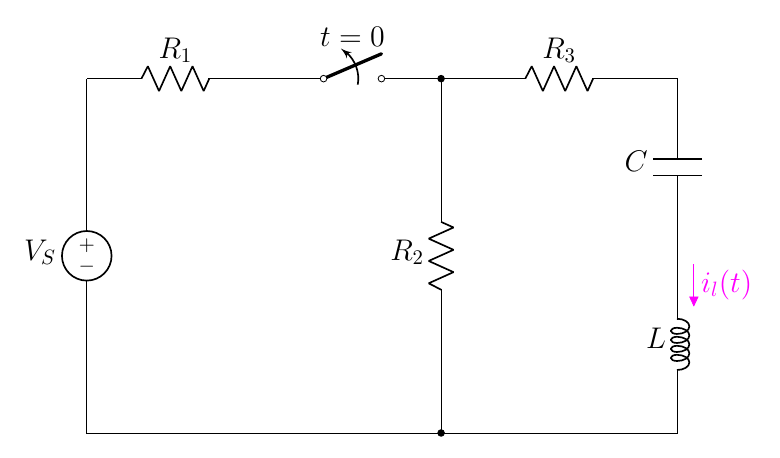
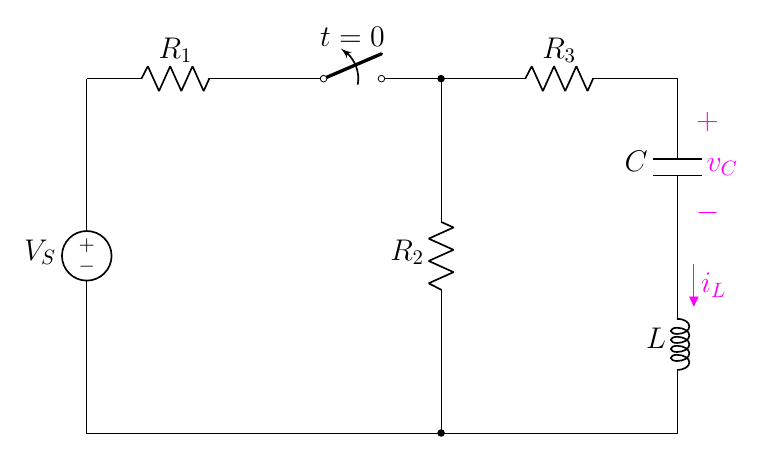
8.16

diff --git a/2.7 Critical Damping/8.3.3 The Critical RLC Circuit/8.16(new).tex b/2.7 Critical Damping/8.3.3 The Critical RLC Circuit/8.16(new).tex
@@ -28,9 +28,14 @@
         to[short] ++(4,0);
     %%% find %%%
     \node at(4.5,6.7) []{$t=0$};
-    % \draw[magenta](6.2,3)  
-    %     to[open,v^=$v_c(t)$] ++(0,-2);
+
+
+    \draw[magenta](10.2,5.5)  
+        to[open,v^=$v_C$] ++(0,-2);
+
     \draw[circuitikz/current arrow color=magenta](10,3)
-    to[open,f>^=$\color{magenta}{i_l(t)}$] ++(0,-2.4);
+    to[open,f>^=$\color{magenta}{i_L}$] ++(0,-2.4);
+
+
 \end{circuitikz}
 \end{document}
